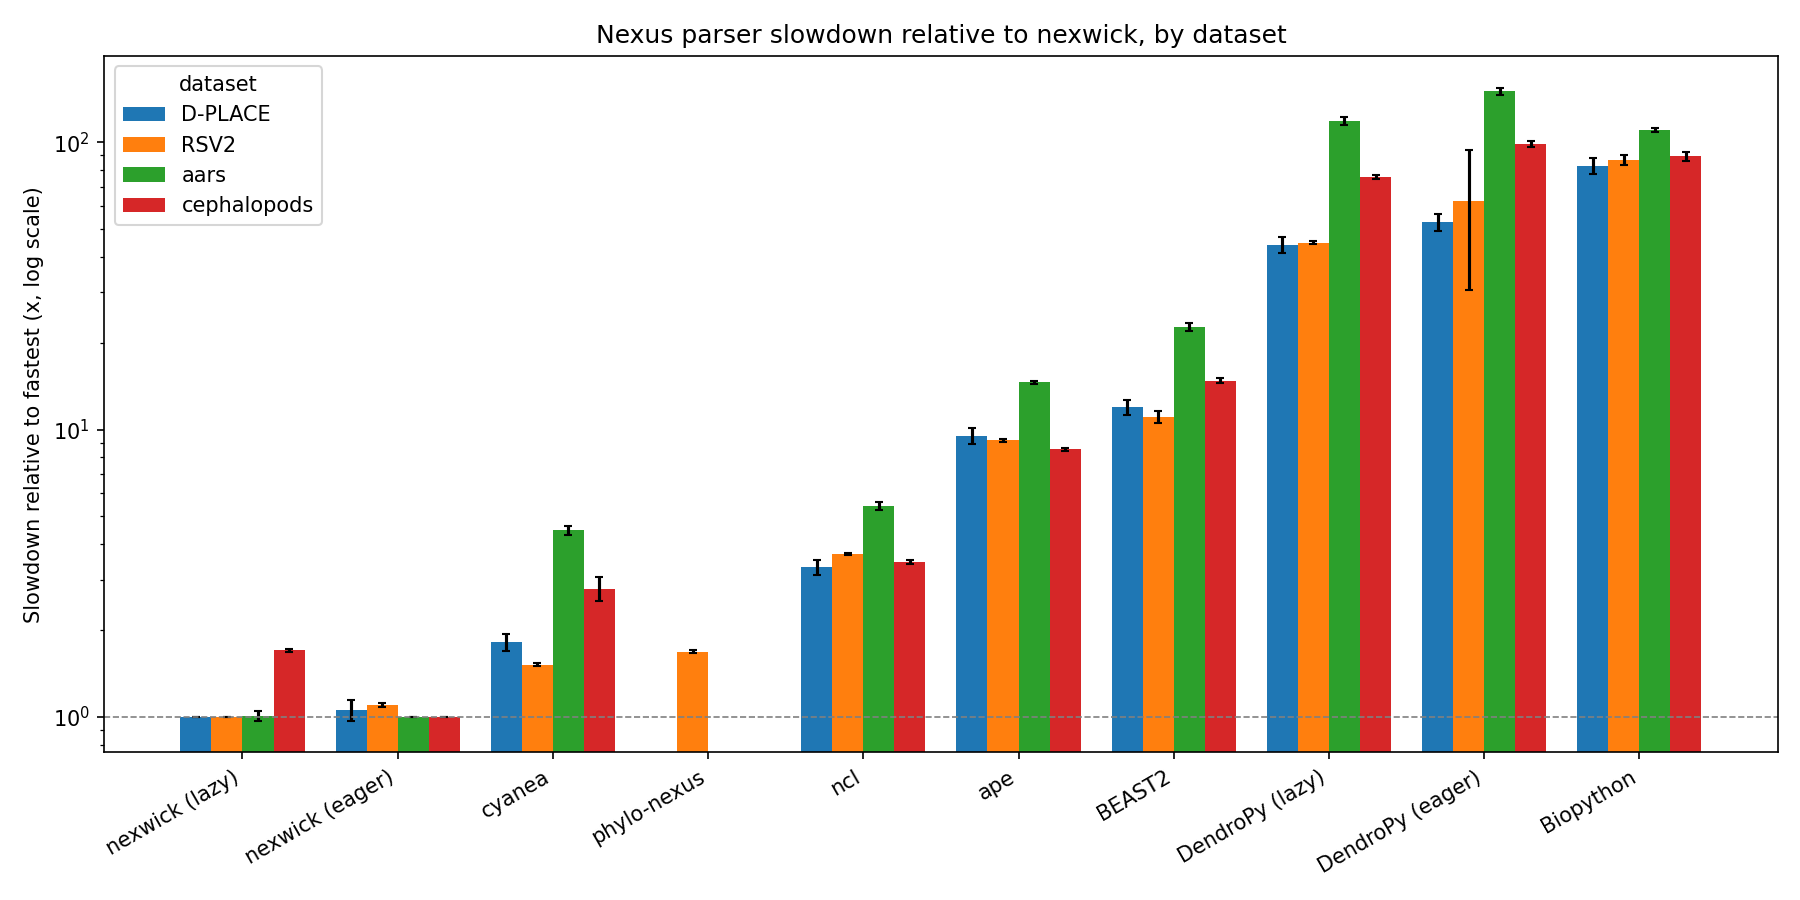
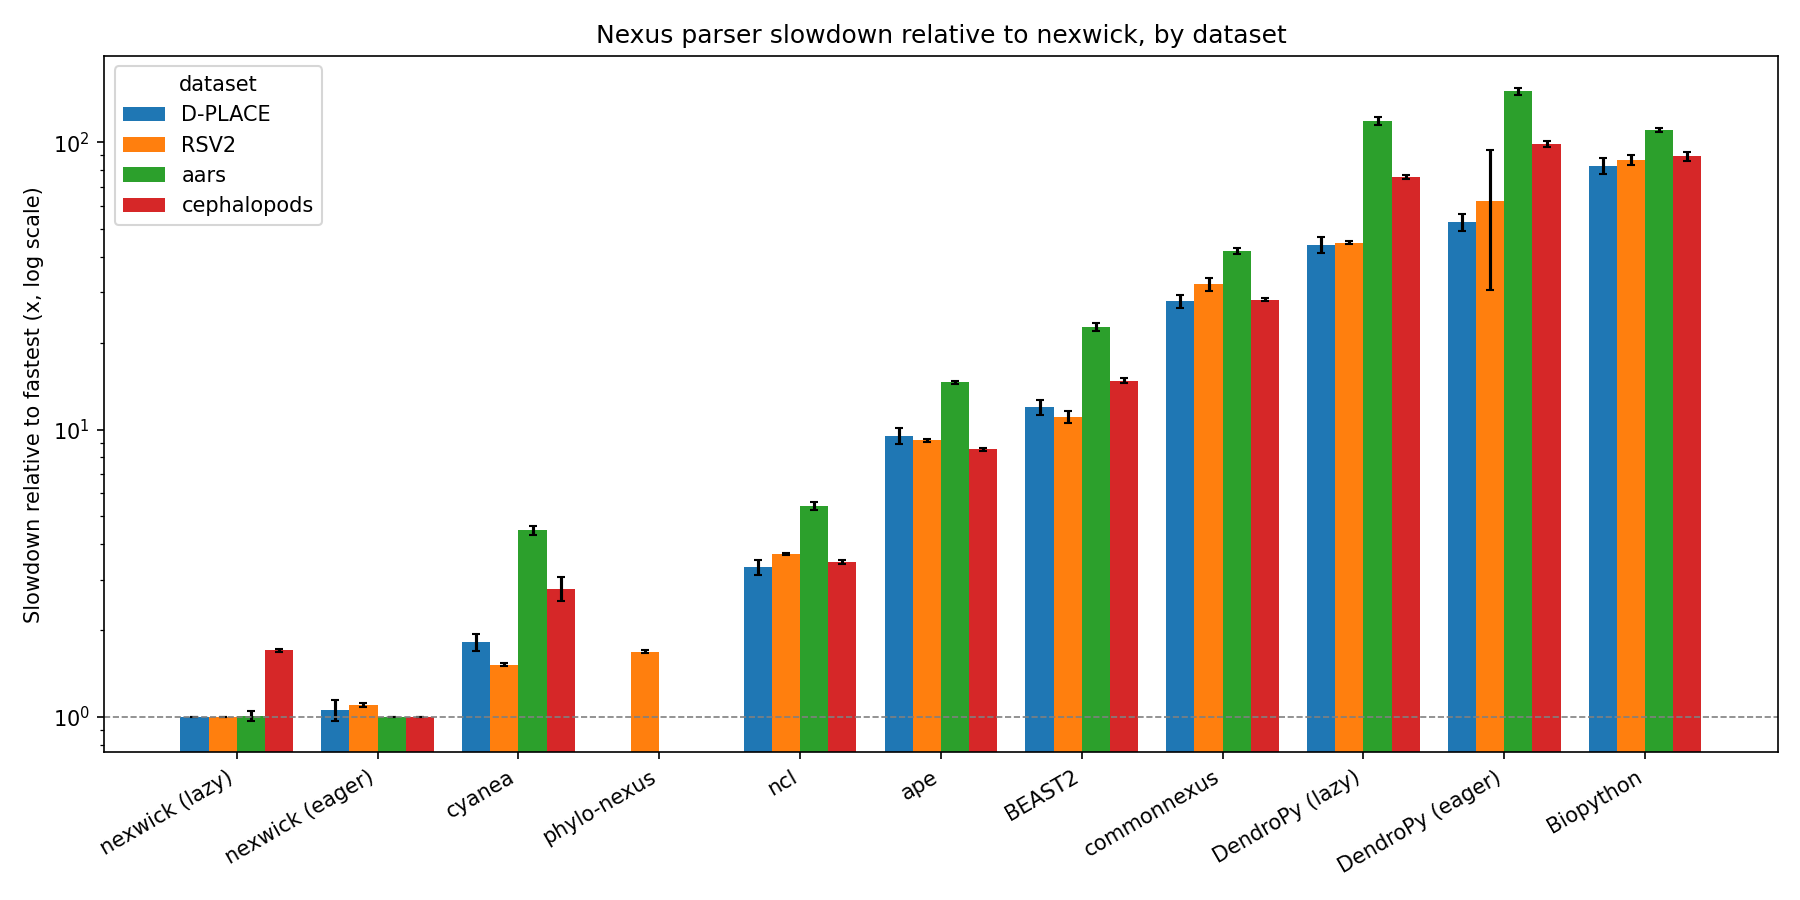
add commonnexus

diff --git a/harness-python/parse_commonnexus.py b/harness-python/parse_commonnexus.py
@@ -1,0 +1,36 @@
+#!/usr/bin/env python3
+import sys
+import os
+import time
+from commonnexus import Nexus
+
+def main():
+    if len(sys.argv) < 2:
+        print("Usage: python3 parse_biopython.py <path_to_file.trees>", file=sys.stderr)
+        sys.exit(1)
+
+    schema = "newick" if "--newick" in sys.argv[1:] else "nexus"
+    file_path = next(a for a in sys.argv[1:] if not a.startswith("--"))
+    if not os.path.exists(file_path):
+        print(f"Error: File not found at '{file_path}'", file=sys.stderr)
+        sys.exit(1)
+
+    try:
+        start_time = time.perf_counter()
+
+        nexus = Nexus.from_file(file_path)
+        num_trees = len(nexus.TREES.trees)
+        num_leaves = nexus.TAXA.commands['DIMENSIONS'][0].ntax
+
+        end_time = time.perf_counter()
+
+        print(f"commonnexus ({schema})")
+        print(f"trees={num_trees}, leaves={num_leaves}")
+        print(f"time={end_time - start_time:.4f}s")
+
+    except Exception as e:
+        print(f"commonnexus parsing failed: {e}", file=sys.stderr)
+        sys.exit(1)
+
+if __name__ == "__main__":
+    main()

diff --git a/plots/plot_results.py b/plots/plot_results.py
@@ -49,6 +49,7 @@ PARSER_ORDER = [
     "ncl",
     "ape",
     "BEAST2",
+    "commonnexus",
     "DendroPy (lazy)",
     "DendroPy (eager)",
     "Biopython",
@@ -70,6 +71,8 @@ def classify_command(command: str) -> str:
         return "ape"
     if "beast2harness" in c:
         return "BEAST2"
+    if "commonnexus" in c:
+        return "commonnexus"
     if "dendropy_lazy" in c:
         return "DendroPy (lazy)"
     if "dendropy" in c:  # plain dendropy harness == eager mode

diff --git a/README.md b/README.md
@@ -3,7 +3,7 @@
 Script and harnesses to benchmark speed of different Nexus file parsers. 
 
 > Quick results overview:  
->  `nexwick` < `cyanea` < `phylo-nexus` < `ncl` < `ape` < `BEAST2` < `DendroPy` < `Biopython`
+>  `nexwick` < `cyanea` < `phylo-nexus` < `ncl` < `ape` < `BEAST2` < `commonnexus` < `DendroPy` < `Biopython`
 
 ## Parsers
 
@@ -45,6 +45,7 @@ then run `cargo build --release`.
 	- Supports lazy and eager modes
 - `Biopython` [website](https://biopython.org/) 
 	- Failed to parse some other files, but mostly worked
+- `commonnexus` [website](https://pypi.org/project/commonnexus/)
 - [ignored - failing] `ete3`
 	- Failed to parse valid files
 
@@ -105,9 +106,10 @@ Difference were most prominent on `aars.gradual.trees`, with the smallest differ
 4. `ncl`: 3.32 - 5.42
 5. `ape`: 8.55 - 14.63
 6. `BEAST2`: 11.06 - 22.72
-7. `DendroPy` (lazy): 43.99 - 118.31
-7. `DendroPy` (eager): 52.70 - 150.13
-8. `Biopython`: 82.96 - 110.31
+7. `commonnexus`: 28.05 - 41.95
+8. `DendroPy` (lazy): 43.99 - 118.31
+9. `DendroPy` (eager): 52.70 - 150.13
+10. `Biopython`: 82.96 - 110.31
 
 ![Relative peformance per dataset (bar plot)](plots/relative_grouped.png?raw=true)
 ![Relative peformance per dataset (heat map)](plots/relative_heatmap.png?raw=true)

diff --git a/results/results_aars.md b/results/results_aars.md
@@ -6,6 +6,9 @@
 | `harness-cpp\ncl_harness.exe data/aars.gradual.trees --nexus` | 747.3 ± 2.4 | 744.8 | 751.9 | 5.42 ± 0.17 |
 | `Rscript harness-R\parse_ape.R data/aars.gradual.trees --nexus` | 2018.9 ± 8.6 | 2009.8 | 2032.8 | 14.63 ± 0.19 |
 | `java -cp harness-java;D:/Projects/Phylo/BEAST/lib/packages/*;D:/Projects/Phylo/BEAST/lib/* Beast2Harness data/aars.gradual.trees --nexus` | 3132.7 ± 19.8 | 3091.4 | 3158.5 | 22.72 ± 0.71 |
+| `python harness-python\parse_commonnexus.py data/aars.gradual.trees --nexus` | 5839.9 ± 95.7 | 5709.9 | 5965.9 | 41.95 ± 1.04 |
 | `python harness-python\parse_biopython.py data/aars.gradual.trees --nexus` | 15227.4 ± 48.6 | 15141.5 | 15321.9 | 110.31 ± 1.43 |
 | `python harness-python\parse_dendropy_lazy.py data/aars.gradual.trees --nexus` | 16313.0 ± 106.4 | 16158.3 | 16487.1 | 118.31 ± 3.68 |
 | `python harness-python\parse_dendropy.py data/aars.gradual.trees --nexus` | 20701.6 ± 127.3 | 20487.6 | 20841.6 | 150.13 ± 4.66 |
+
+

diff --git a/results/results_cephalopods.md b/results/results_cephalopods.md
@@ -6,6 +6,8 @@
 | `harness-cpp\ncl_harness.exe data/cephalopod.gradual.trees --nexus` | 2.103 ± 0.028 | 2.077 | 2.157 | 3.47 ± 0.06 |
 | `Rscript harness-R\parse_ape.R data/cephalopod.gradual.trees --nexus` | 5.190 ± 0.011 | 5.177 | 5.210 | 8.55 ± 0.10 |
 | `java -cp harness-java;D:/Projects/Phylo/BEAST/lib/packages/*;D:/Projects/Phylo/BEAST/lib/* Beast2Harness data/cephalopod.gradual.trees --nexus` | 8.981 ± 0.118 | 8.815 | 9.232 | 14.80 ± 0.26 |
+| `python harness-python\parse_commonnexus.py data/cephalopod.gradual.trees --nexus` | 16.924 ± 0.185 | 16.692 | 17.233 | 28.32 ± 0.40 |
 | `python harness-python\parse_dendropy_lazy.py data/cephalopod.gradual.trees --nexus` | 45.946 ± 0.510 | 44.852 | 46.462 | 75.73 ± 1.22 |
 | `python harness-python\parse_biopython.py data/cephalopod.gradual.trees --nexus` | 54.267 ± 1.918 | 53.432 | 59.685 | 89.44 ± 3.33 |
 | `python harness-python\parse_dendropy.py data/cephalopod.gradual.trees --nexus` | 59.739 ± 1.069 | 58.910 | 62.295 | 98.46 ± 2.10 |
+

diff --git a/results/results_RSV2.md b/results/results_RSV2.md
@@ -7,6 +7,7 @@
 | `harness-cpp\ncl_harness.exe data/RSV2-n129-10k.trees --nexus` | 1821.8 ± 7.1 | 1813.7 | 1836.9 | 3.70 ± 0.03 |
 | `Rscript harness-R\parse_ape.R data/RSV2-n129-10k.trees --nexus` | 4524.4 ± 41.3 | 4481.5 | 4610.6 | 9.19 ± 0.11 |
 | `java -cp harness-java;D:/Projects/Phylo/BEAST/lib/packages/*;D:/Projects/Phylo/BEAST/lib/* Beast2Harness data/RSV2-n129-10k.trees --nexus` | 5446.2 ± 250.6 | 4759.9 | 5625.7 | 11.06 ± 0.51 |
+| `python harness-python\parse_commonnexus.py data/RSV2-n129-10k.trees --nexus` | 15819.1 ± 164.5 | 15709.4 | 16265.5 | 32.01 ± 1.67 |
 | `python harness-python\parse_dendropy_lazy.py data/RSV2-n129-10k.trees --nexus` | 22034.9 ± 280.6 | 21836.8 | 22755.8 | 44.76 ± 0.65 |
 | `python harness-python\parse_dendropy.py data/RSV2-n129-10k.trees --nexus` | 30660.5 ± 15563.5 | 25208.9 | 74942.0 | 62.28 ± 31.62 |
 | `python harness-python\parse_biopython.py data/RSV2-n129-10k.trees --nexus` | | 42964.7 ± 1200.5 | 41091.9 | 45245.1 | 87.01 ± 3.49 |

diff --git a/results/results_dplace.md b/results/results_dplace.md
@@ -6,6 +6,7 @@
 | `harness-cpp\ncl_harness.exe data/dplace_bourckaert_posterior.trees --nexus` | 474.7 ± 5.4 | 466.5 | 483.3 | 3.32 ± 0.20 |
 | `Rscript harness-R\parse_ape.R data/dplace_bourckaert_posterior.trees --nexus` | 1364.0 ± 23.1 | 1322.1 | 1402.8 | 9.53 ± 0.59 |
 | `java -cp harness-java;D:/Projects/Phylo/BEAST/lib/packages/*;D:/Projects/Phylo/BEAST/lib/* Beast2Harness data/dplace_bourckaert_posterior.trees --nexus` | 1715.0 ± 20.0 | 1683.9 | 1744.7 | 11.99 ± 0.73 |
+| `python harness-python\parse_commonnexus.py data/dplace_bourckaert_posterior.trees --nexus` | 3765.7 ± 34.6 | 3706.5 | 3798.4 | 28.05 ± 1.46 |
 | `python harness-python\parse_dendropy_lazy.py data/dplace_bourckaert_posterior.trees --nexus` | 6293.9 ± 63.9 | 6216.3 | 6438.8 | 43.99 ± 2.67 |
 | `python harness-python\parse_dendropy.py data/dplace_bourckaert_posterior.trees --nexus` | 7539.5 ± 223.5 | 7194.2 | 7913.3 | 52.70 ± 3.52 |
 | `python harness-python\parse_biopython.py data/dplace_bourckaert_posterior.trees --nexus` | 11868.0 ± 332.3 | 11502.1 | 12348.7 | 82.96 ± 5.48 |